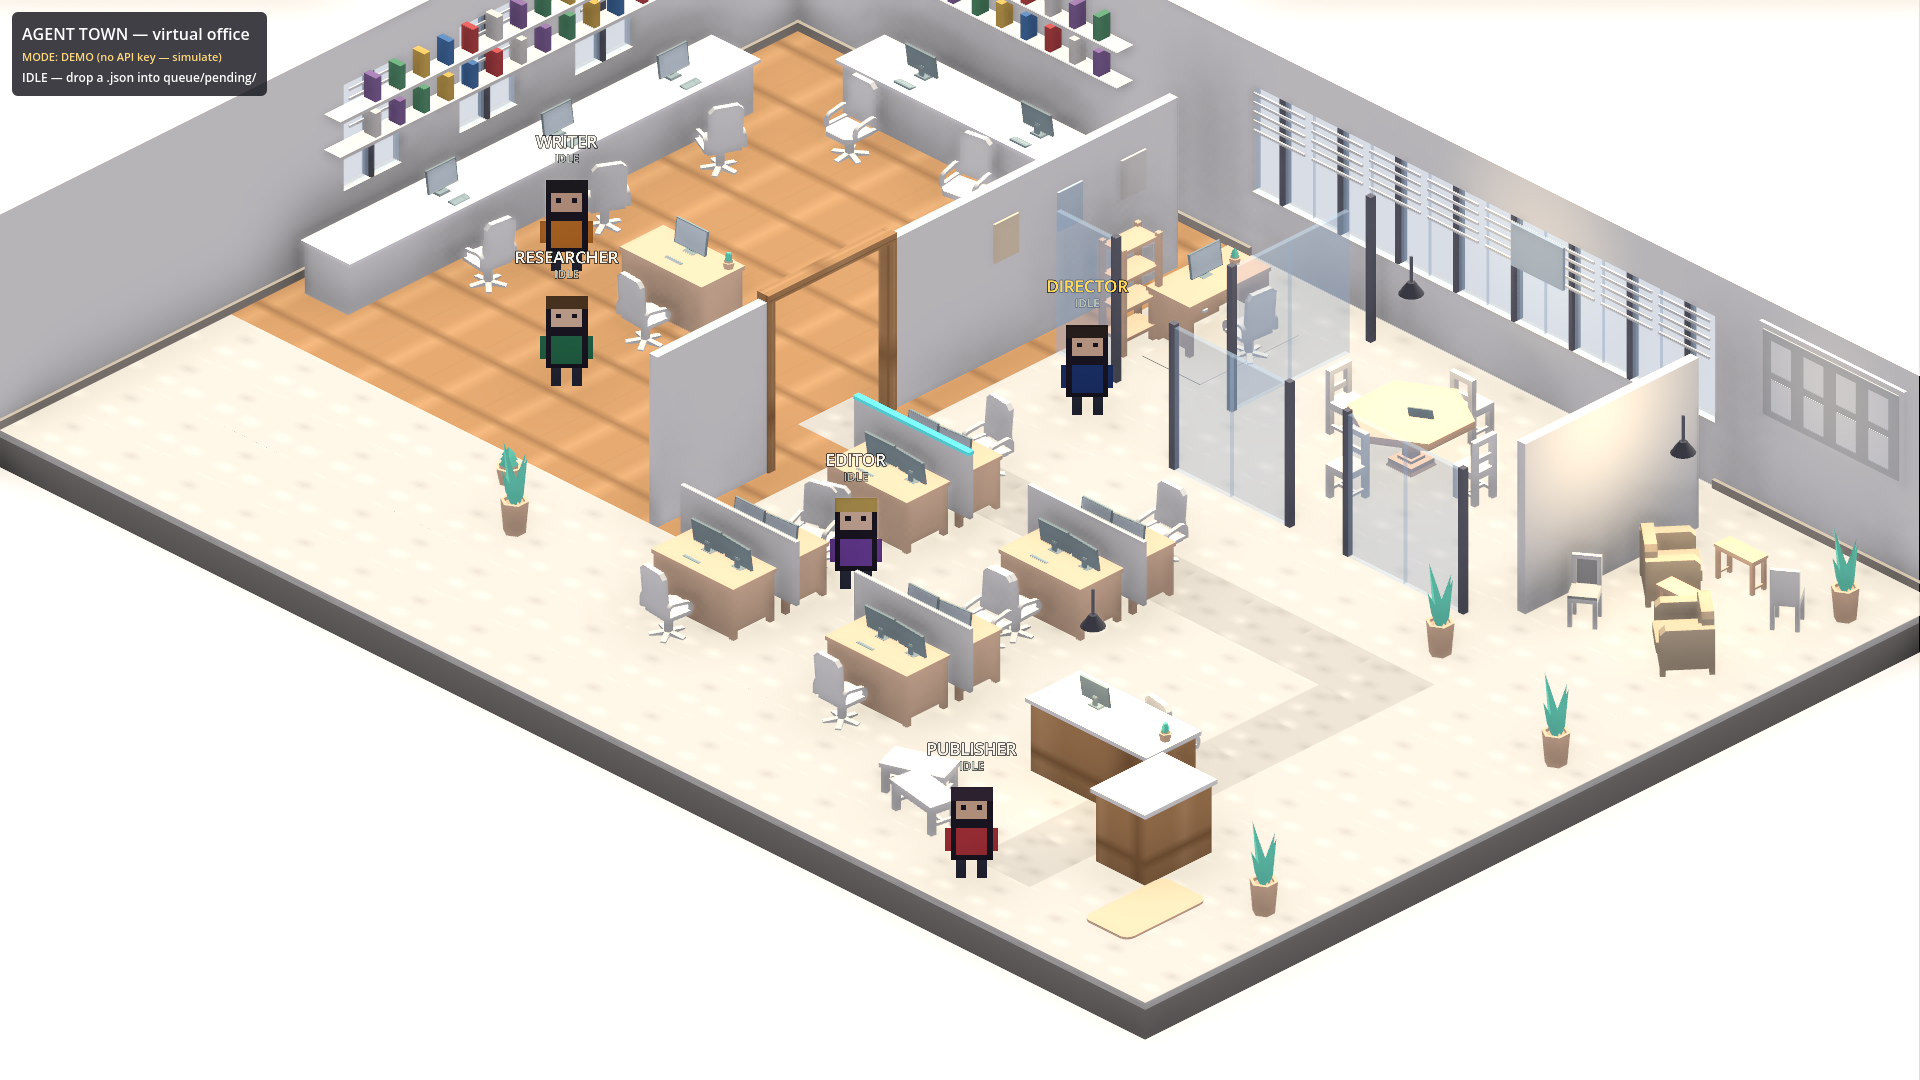
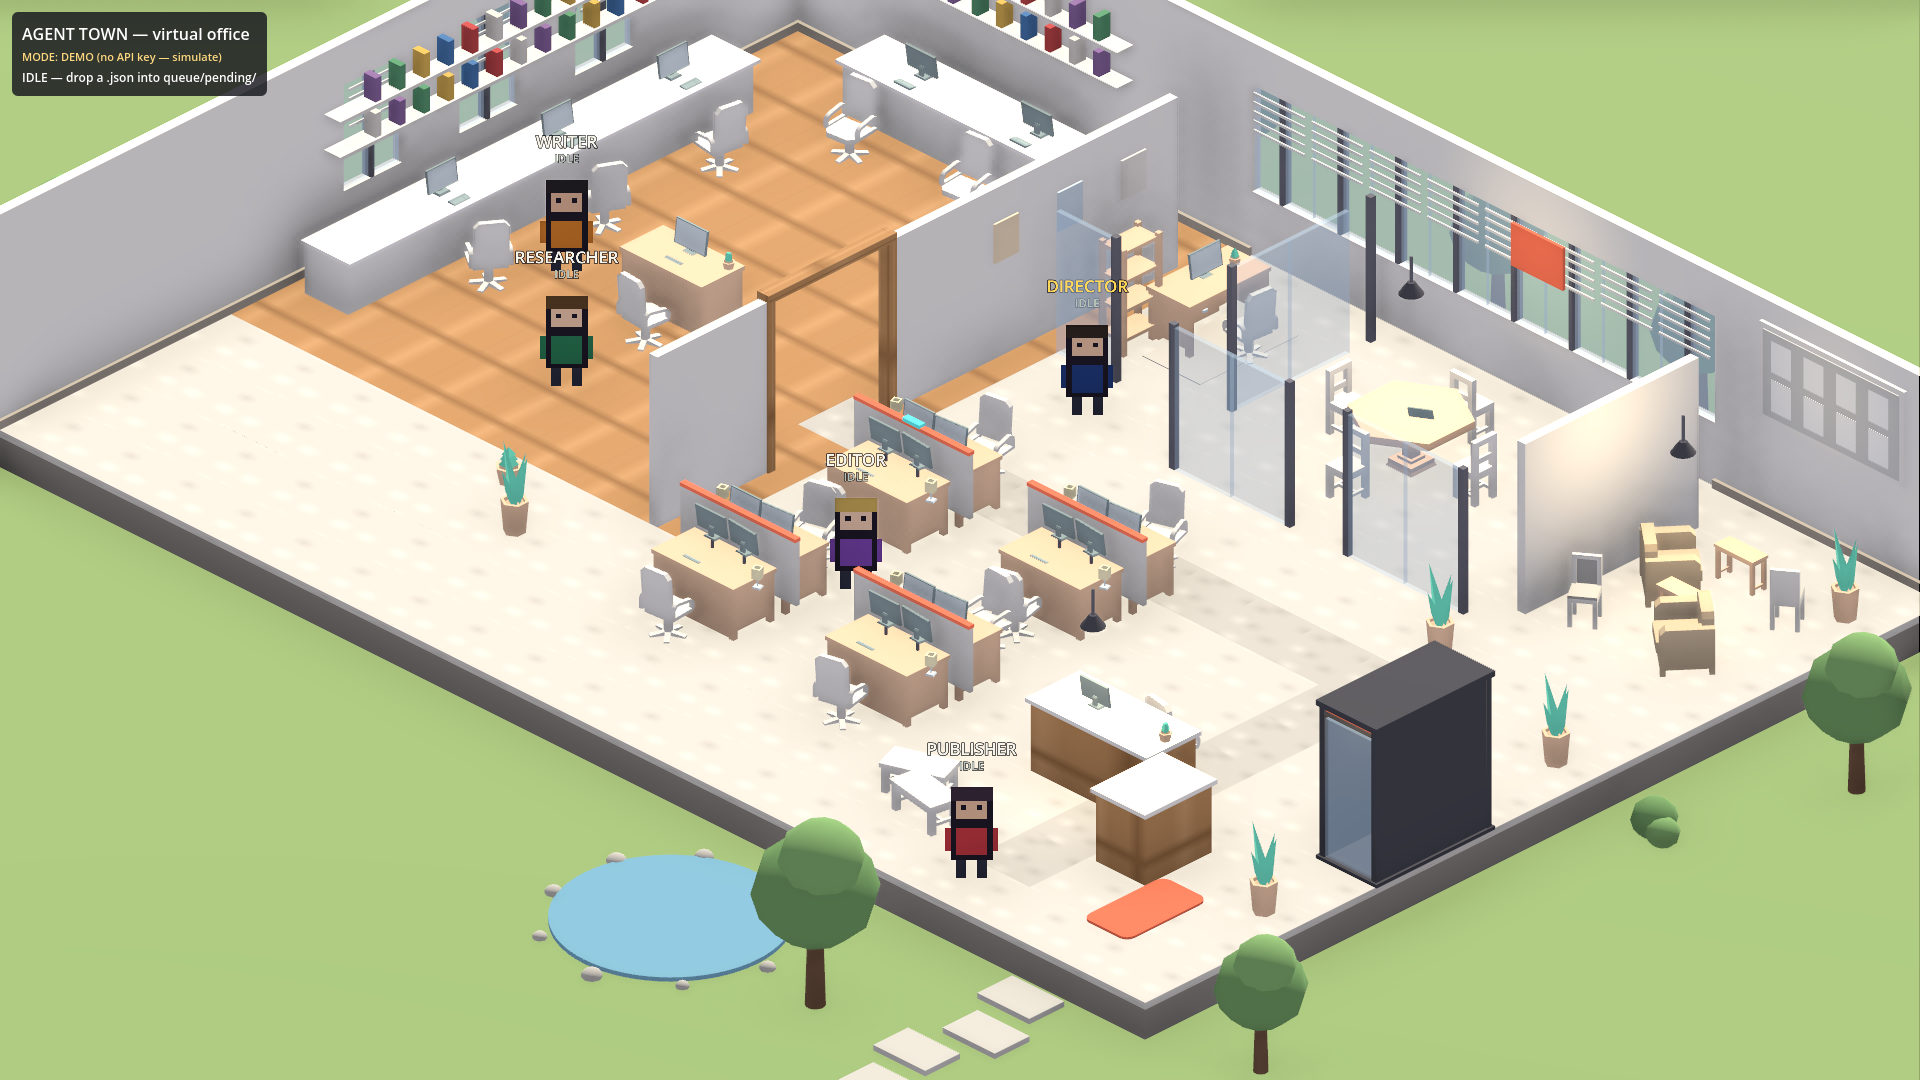
Furniture + landscape improvement (docs/IMPROVEMENT_PLAN.md)
Owner interview: Scandinavian minimal, green courtyard, sit-stand pods,
coffee bar, focus booth, coral accent. Implemented:
- Workstations: monitor arms (raised screens), task lamps, coral trim
- Coffee bar/pantry: counter run, bar stools, upper cabinets, fridge
- Focus booth: dark shell, south glass front, desk + seat, warm light
- Coral accent system: doormat, pod trims, meeting art, wall frames
- Green courtyard: grass, low-poly trees + bushes outside every window,
  stone walkway from the entrance, pond with stone edge, soft sky
- New models: stoolBar, kitchenBar(+End), upper cabinets, lampSquareTable

diff --git a/docs/IMPROVEMENT_PLAN.md b/docs/IMPROVEMENT_PLAN.md
@@ -1,0 +1,68 @@
+# Office improvement plan — furniture, interior & landscape
+
+Based on a study of office-furniture design and biophilic/landscape
+principles, plus the owner's interview. Sources at the bottom.
+
+## What the study says
+
+**Furniture.** The modern direction is ergonomic and adaptable:
+sit-stand desks, monitor arms (screens off the desk surface), task
+lighting per station, benching systems with integrated dividers, and
+matte, low-sheen natural materials (light wood, wool textiles) over
+glossy finishes. Personalized ergonomic setups measurably reduce fatigue
+and injuries; benching keeps collaboration density without cubicle walls.
+
+**Landscape / biophilia.** Nature measurably improves focus (+6%
+productivity, +15% creativity in cited studies): indoor-outdoor
+connection through windows onto greenery, courtyards, natural materials,
+plants at multiple scales, and "prospect and refuge" — open sightlines
+plus sheltered nooks (a focus booth is exactly this).
+
+## Owner's vision (interview)
+
+| Question | Answer |
+|---|---|
+| Style | **Scandinavian minimal** — light wood, white, clean, warm |
+| Landscape | **Green courtyard** around the building, visible through windows |
+| Signature elements | **Sit-stand desks + monitor arms**, **coffee bar/pantry**, **focus booth** |
+| Accent (the 10%) | **Coral/orange** |
+
+## The plan
+
+### Phase 1 — Furniture & interior (Scandinavian + ergonomics)
+1. **Workstation upgrade**: monitor arms (screens raised on slim steel
+   poles), task lamps per pod, coral trim as the single accent line;
+   pod dividers stay matte white.
+2. **Coffee bar / pantry** (west wall): kitchen counter run with bar
+   stools, upper cabinets, fridge, coffee machine — the social heart,
+   on the studio-wing side of the circulation spine.
+3. **Focus booth** (east wall): enclosed 1-person pod — dark matte
+   shell, glass front, inner seat and mini desk. Prospect-and-refuge.
+4. **Accent unification**: coral doormat, coral pod trims, coral wall
+   art and meeting-room artwork; role identity stays on nameplates.
+
+### Phase 2 — Landscape (green courtyard)
+5. **Grass courtyard** replaces the gray ground plane; stone walkway
+   leading from the entrance mat outward.
+6. **Trees and bushes** placed outside the north and west walls so every
+   window frames greenery (indoor-outdoor connection).
+7. **Pond** with stone edge in the courtyard's south-east corner.
+8. **Sky tint**: background from flat gray to soft daylight blue-green.
+
+### Phase 3 — Polish (later)
+9. Wool-look rugs in lounge, cushions with coral pops.
+10. Reception brand panel with the office name.
+11. Ceiling grid implied by aligned pendants over every zone.
+
+## Sources
+
+- [Capital Choice — ergonomic office trends](https://www.ccofficefurniture.com/modern-ergonomic-office-trends-2026-productivity-design/)
+- [Cubicle by Design — workplace design trends 2025](https://cubiclebydesign.com/workplace-design-trends/)
+- [OFDC — transformative office design trends](https://ofdc-inc.com/five-transformative-trends-in-office-space-design-for-2025/)
+- [Vision Furniture — office furniture design 2025](https://www.vision-furniture.com/latest-trends-and-developments-in-office-furniture-design-2025/)
+- [Decorilla — office design trends](https://www.decorilla.com/online-decorating/office-design-trends-2025/)
+- [Eureka — biophilic & sustainable furniture guide](https://eurekaergonomic.com/blogs/eureka-ergonomic-blog/biophilic-design-sustainable-office-furniture-guide)
+- [ArchitectureCourses — biophilic office design](https://www.architecturecourses.org/design/biophilic-office-design)
+- [Uncommon Designers — six principles of biophilic design](https://uncommondesigners.com/the-six-principles-of-biophilic-design/)
+- [ArchDaily — biophilic offices: landscape and the working environment](https://www.archdaily.com/985534/biophilic-offices-landscape-and-the-working-environment)
+- [Flip Spaces — nature-inspired office principles](https://flipspaces.com/biophilic-office-interiors-nature-inspired-design-principles-ideas/)